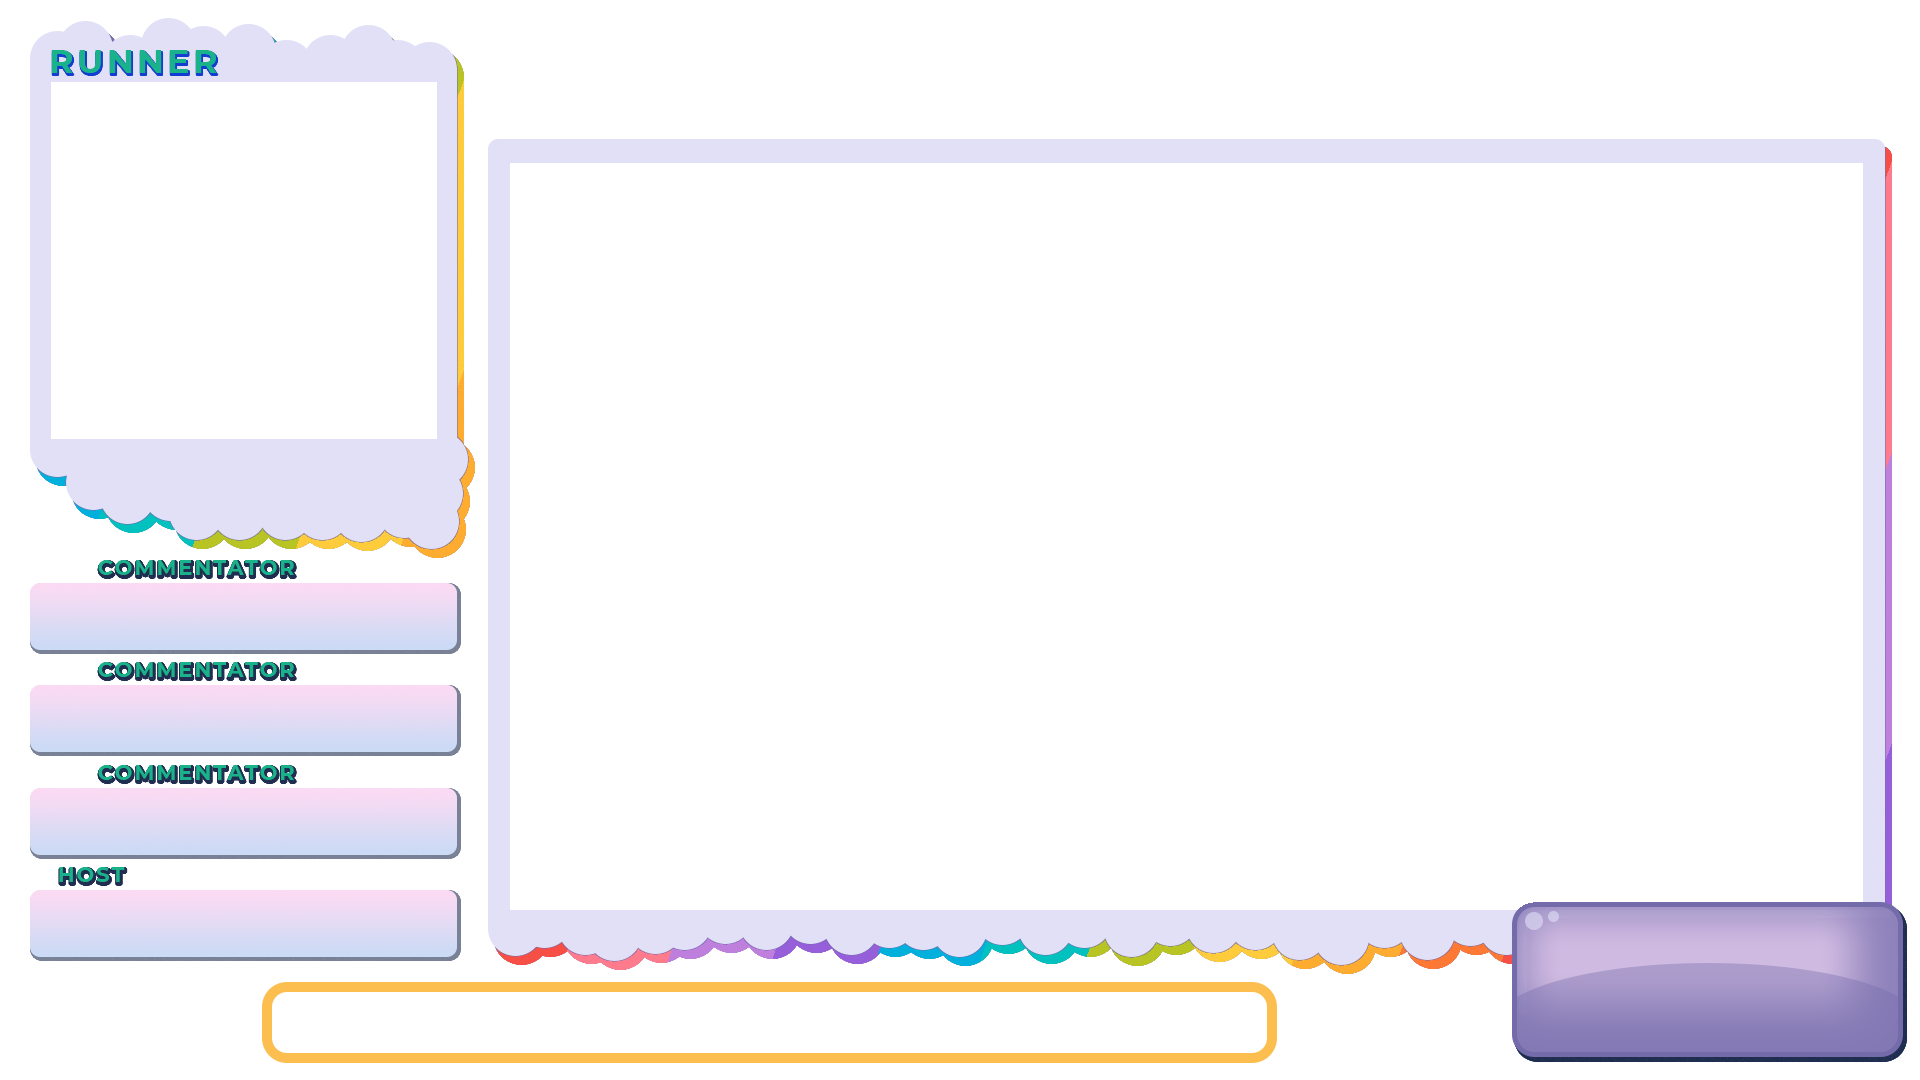
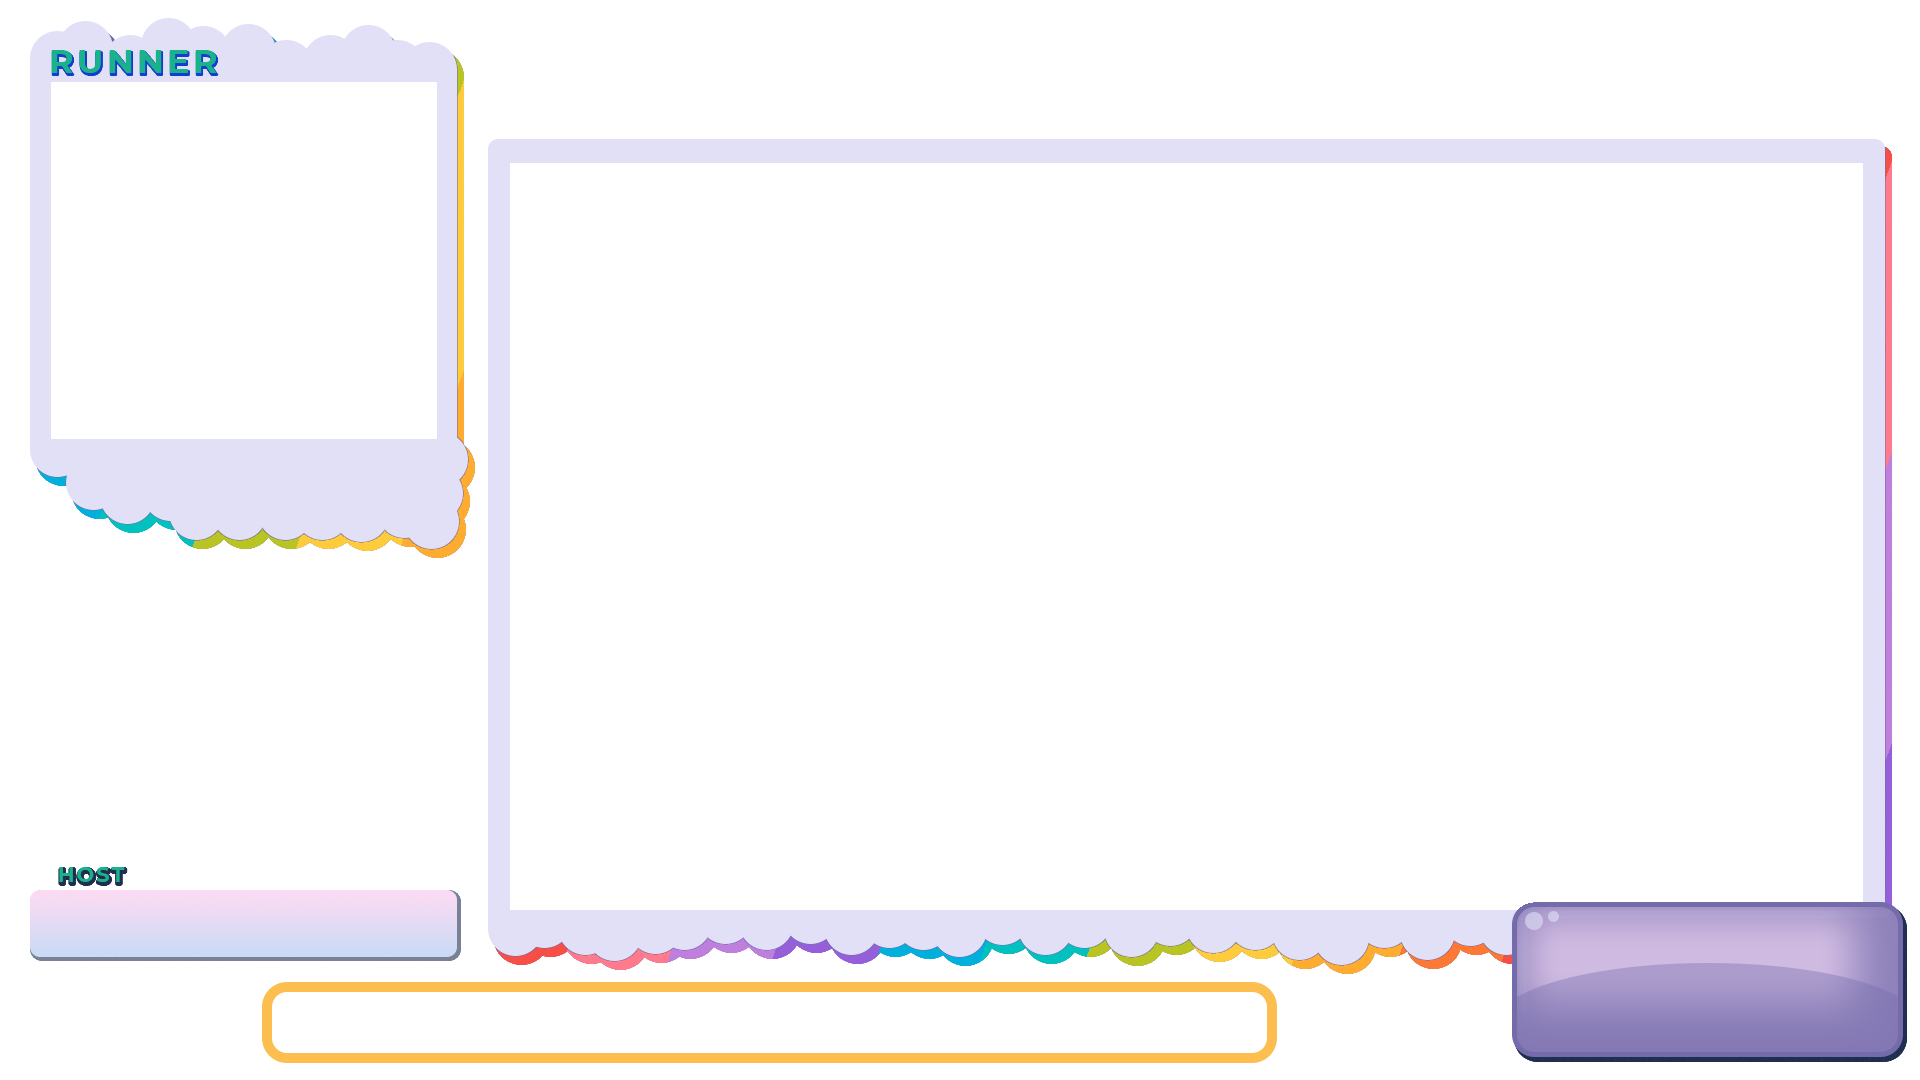
miscellaneous things

Changed region(s): [[0.0, 0.5194, 0.25, 0.7944]]

diff --git a/graphics/4x3-1p.html b/graphics/4x3-1p.html
@@ -30,7 +30,7 @@
                 id="player1"
                 style="
                     position: absolute;
-                    left: 76px;
+                    left: 96px;
                     top: 638px;
                     font-size: 50px;"
             >{Player 1}</div>
@@ -45,15 +45,18 @@
         </div>
 
         <!-- Commentary Information -->
-        <div class="commentary-container">
+        <div class="commentary-container" id="comm1-container">
+            <img id="comm1-box" src="./assets/overlays/4x3-1p-COMMTHING.png" style="position: absolute; left: 22px; top: 744px;">
             <div class="mouse-memoirs-regular comm-name" id="comm1" style="left: 68px; top: 767px;">{Commentary 1}</div>
             <div class="montserrat-bold comm-pronouns" id="comm1-pronouns" style="left: 68px; top: 809px;">{THEY/THEM}</div>
         </div>
-        <div class="commentary-container">
+        <div class="commentary-container" id="comm2-container">
+            <img id="comm2-box" src="./assets/overlays/4x3-1p-COMMTHING.png" style="position: absolute; left: 360px; top: 744px;">
             <div class="mouse-memoirs-regular comm-name" id="comm2" style="left: 406px; top: 767px;">{Commentary 2}</div>
             <div class="montserrat-bold comm-pronouns" id="comm2-pronouns" style="left: 406px; top: 809px;">{THEY/THEM}</div>
         </div>
-        <div class="commentary-container">
+        <div class="commentary-container" id="comm3-container">
+            <img id="comm3-box" src="./assets/overlays/4x3-1p-COMMTHING.png" style="position: absolute; left: 22px; top: 854px;">
             <div class="mouse-memoirs-regular comm-name" id="comm3" style="left: 68px; top: 876px;">{Commentary 3}</div>
             <div class="montserrat-bold comm-pronouns" id="comm3-pronouns" style="left: 68px; top: 918px;">{THEY/THEM}</div>
         </div>

diff --git a/graphics/16x9-1p.html b/graphics/16x9-1p.html
@@ -45,15 +45,18 @@
         </div>
 
         <!-- Commentary Information -->
-        <div class="commentary-container">
+        <div class="commentary-container" id="comm1-container">
+            <img id="comm1-box" src="./assets/overlays/16x9-1p-COMMTHING.png" style="position: absolute; left: 30px; top: 560px;">
             <div class="mouse-memoirs-regular comm-name" id="comm1" style="left: 72px; top: 583px;">{Commentary 1}</div>
             <div class="montserrat-bold comm-pronouns" id="comm1-pronouns" style="left: 72px; top: 626px;">{THEY/THEM}</div>
         </div>
-        <div class="commentary-container">
+        <div class="commentary-container" id="comm2-container">
+            <img id="comm2-box" src="./assets/overlays/16x9-1p-COMMTHING.png" style="position: absolute; left: 30px; top: 662px;">
             <div class="mouse-memoirs-regular comm-name" id="comm2" style="left: 72px; top: 686px;">{Commentary 2}</div>
             <div class="montserrat-bold comm-pronouns" id="comm2-pronouns" style="left: 72px; top: 728px;">{THEY/THEM}</div>
         </div>
-        <div class="commentary-container">
+        <div class="commentary-container" id="comm3-container">
+            <img id="comm3-box" src="./assets/overlays/16x9-1p-COMMTHING.png" style="position: absolute; left: 30px; top: 765px;">
             <div class="mouse-memoirs-regular comm-name" id="comm3" style="left: 72px; top: 789px;">{Commentary 3}</div>
             <div class="montserrat-bold comm-pronouns" id="comm3-pronouns" style="left: 72px; top: 831px;">{THEY/THEM}</div>
         </div>

diff --git a/graphics/js/run-info.js b/graphics/js/run-info.js
@@ -48,10 +48,25 @@ $(() => {
         if (newVal) {
             comm1NameElement.html(newVal.comm1Name);
             comm1PronounsElement.html(newVal.comm1Pronouns.toUpperCase());
+            if (newVal.comm1Name === '')
+                document.getElementById('comm1-box').style.display = 'none';
+            else
+                document.getElementById('comm1-box').style.display = 'block';
+
             comm2NameElement.html(newVal.comm2Name);
             comm2PronounsElement.html(newVal.comm2Pronouns.toUpperCase());
+            if (newVal.comm2Name === '')
+                document.getElementById('comm2-box').style.display = 'none';
+            else
+                document.getElementById('comm2-box').style.display = 'block';
+
             comm3NameElement.html(newVal.comm3Name);
             comm3PronounsElement.html(newVal.comm3Pronouns.toUpperCase());
+            if (newVal.comm3Name === '')
+                document.getElementById('comm3-box').style.display = 'none';
+            else
+                document.getElementById('comm3-box').style.display = 'block';
+
             hostNameElement.html(newVal.hostName);
             hostPronounsElement.html(newVal.hostPronouns.toUpperCase());
         }

diff --git a/graphics/omnibar.html b/graphics/omnibar.html
@@ -1,0 +1,26 @@
+<!DOCTYPE html>
+<html lang="en">
+    <head>
+    	<meta charset="UTF-8" />
+
+        <link rel="preconnect" href="https://fonts.googleapis.com">
+        <link rel="preconnect" href="https://fonts.gstatic.com" crossorigin>
+        <link href="https://fonts.googleapis.com/css2?family=Mouse+Memoirs&display=swap" rel="stylesheet">
+        <link rel="preconnect" href="https://fonts.googleapis.com">
+        <link rel="preconnect" href="https://fonts.gstatic.com" crossorigin>
+        <link href="https://fonts.googleapis.com/css2?family=Montserrat:wght@700&display=swap" rel="stylesheet">
+
+        <link rel="stylesheet" href="./css/common.css" />
+        <link rel="stylesheet" href="./css/omnibar.css" />
+
+        <script
+            src="https://code.jquery.com/jquery-3.7.1.min.js"
+            integrity="sha256-/JqT3SQfawRcv/BIHPThkBvs0OEvtFFmqPF/lYI/Cxo="
+            crossorigin="anonymous">
+        </script>
+    </head>
+    <body>
+        <!-- Scripts -->
+        <script src="./js/omnibar.js"></script>
+    </body>
+</html>

diff --git a/graphics/intermission.html b/graphics/intermission.html
@@ -54,7 +54,7 @@
         </div>
 
         <!-- Host Container -->
-        <div class="host-container" style="left: 281px; top: 991px">
+        <div class="host-container" style="left: 1564px; top: 991px">
             <div class="mouse-memoirs-regular host-name" id="host-name">{HOST NAME}</div>
             <div class="montserrat-bold host-pronouns" id="host-pronouns">{HOST PRONOUNS}</div>
         </div>

diff --git a/graphics/js/omnibar.js b/graphics/js/omnibar.js
@@ -1,0 +1,7 @@
+var donoRep = nodecg.Replicant('donations', 'nodecg-tiltify');
+
+donoRep.on('change', (newVal) => {
+    if (newVal) {
+        console.log(newVal);
+    }
+});
